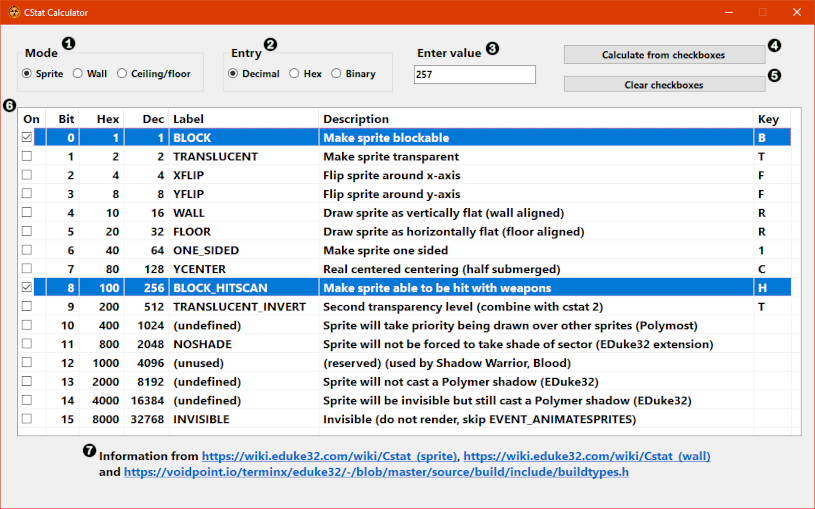
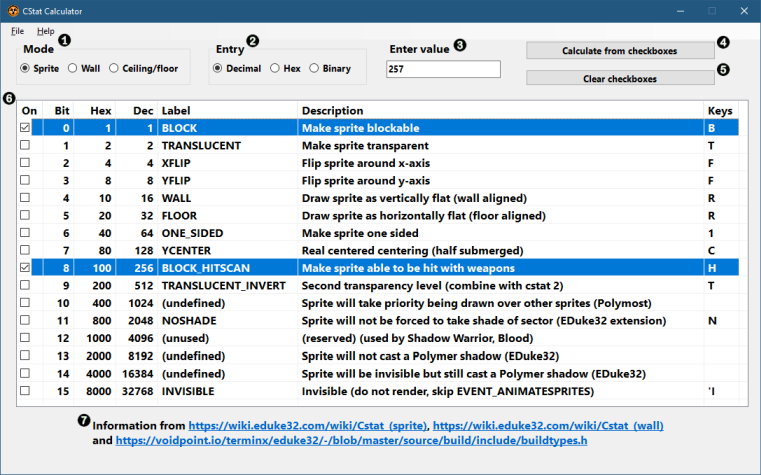
Minor cosmetic change, added license text file to zip package

diff --git a/CStat/Form1.cs b/CStat/Form1.cs
@@ -1,13 +1,7 @@
-//using Microsoft.VisualBasic;
 using System.Diagnostics;
-//using System.Drawing;
-//using System.Drawing.Text;
 using System.Globalization;
 using System.Reflection;
-
-//using System.Security.Policy;
 using System.Text.RegularExpressions;
-//using System.Xml;
 
 namespace CStat
 {
@@ -39,7 +33,7 @@ namespace CStat
             "(EDuke32 extension)", "(reserved) (used by Shadow Warrior, Blood)", "Sprite will not cast a Polymer shadow (EDuke32)",
             "Sprite will be invisible but still cast a Polymer shadow (EDuke32)", "Invisible (do not render, skip EVENT_ANIMATESPRITES)"};
 
-        private readonly String[] sKey = { "B", "T", "F", "F", "R", "R", "1", "C", "H", "T", "", "", "", "", "", "" };
+        private readonly String[] sKey = { "B", "T", "F", "F", "R", "R", "1", "C", "H", "T", "", "N", "", "", "", "'I" };
 
         private readonly String[] wLabel = {"BLOCK", "BOTTOM_SWAP", "ALIGN_BOTTOM", "XFLIP",
             "MASKED", "1WAY", "BLOCK_HITSCAN", "TRANSLUCENT", "YFLIP", "TRANS_FLIP", "YAX_UPWALL",
@@ -66,7 +60,7 @@ namespace CStat
             "(reserved)", "(reserved)", "(reserved)", "(reserved)"};
 
         private readonly String[] cKey = { "P", "", "F", "E", "F", "F", "R", "T", "T", "", "", "", "", "", "", "" };
-
+        
         /// <summary>
         /// Calculate cstat/flags for Mapster32 or EDuke32 - main form
         /// </summary>
@@ -433,5 +427,6 @@ namespace CStat
         {
             Application.Exit();
         }
+
     }
 }

diff --git a/CStat/Form1.Designer.cs b/CStat/Form1.Designer.cs
@@ -215,6 +215,7 @@ namespace CStat
             LV.Location = new Point(22, 110);
             LV.Name = "LV";
             LV.Scrollable = false;
+            LV.ShowItemToolTips = true;
             LV.Size = new Size(1046, 438);
             LV.TabIndex = 6;
             LV.UseCompatibleStateImageBehavior = false;
@@ -254,7 +255,7 @@ namespace CStat
             // 
             // columnHeader7
             // 
-            columnHeader7.Text = "Key";
+            columnHeader7.Text = "Keys";
             columnHeader7.Width = 50;
             // 
             // rtbInfo
@@ -305,7 +306,7 @@ namespace CStat
             // 
             exitToolStripMenuItem.DisplayStyle = ToolStripItemDisplayStyle.Text;
             exitToolStripMenuItem.Name = "exitToolStripMenuItem";
-            exitToolStripMenuItem.Size = new Size(180, 22);
+            exitToolStripMenuItem.Size = new Size(93, 22);
             exitToolStripMenuItem.Text = "E&xit";
             exitToolStripMenuItem.Click += exitToolStripMenuItem_Click;
             // 
